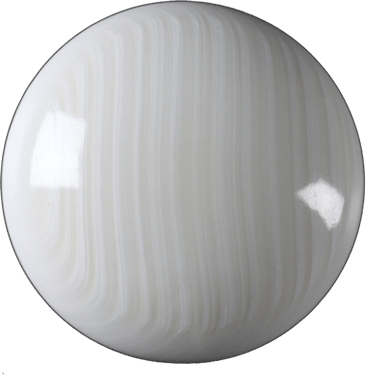
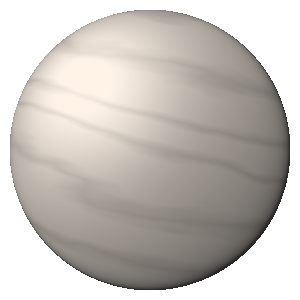
Make stone info click, add current OGOW game record, change white stone look

diff --git a/src/components/board/OwogMove.tsx b/src/components/board/OwogMove.tsx
@@ -1,11 +1,13 @@
 "use client"
 
 import { cn } from "@/lib/utils";
+import { FaRegCircle } from "react-icons/fa";
 import Image from "next/image";
 import { GoStoneProps, OneWorldPlayerInfo, StoneColor } from "../../lib/interface";
-import { Tooltip, TooltipContent, TooltipProvider, TooltipTrigger } from "../ui/tooltip";
 import { Avatar, AvatarFallback, AvatarImage } from "../ui/avatar";
-import { Circle } from "lucide-react";
+import { Popover, PopoverContent, PopoverTrigger } from "../ui/popover";
+
+const maxNameLengthForSmallerFont = 16
 
 export interface OwogMoveProps extends GoStoneProps {
   player: OneWorldPlayerInfo;
@@ -16,54 +18,63 @@ export interface OwogMoveProps extends GoStoneProps {
  * One World One Game Move
  */
 export function OwogMove({ color, position, className, player, size = 20, isCurrentMove }: OwogMoveProps) {
-  // 2 circles of different sizes are touching in the upper left
-  // By what distance do we need to shift the smaller circle such that both circles are centered?
-  // shift the smaller circle down and right by R(1-r/R)
-  // const markerSize = size / 1.6
-  // const marker = isCurrentMove ? (
-  //   <Circle
-  //     className="absolute z-20"
-  //     style={{
-  //       top: position.top,
-  //       left: position.left,
-  //       height: markerSize,
-  //       width: markerSize,
-  //       color: color === StoneColor.BLACK ? StoneColor.WHITE : StoneColor.BLACK
-  //     }}
-  //   />
-  // ) : undefined
+  const defaultPlayerImageFileName = `${player.last.toLowerCase()}_${player.first.toLowerCase()}.jpg`
+  const markerSize = size / 1.8
+  const marker = isCurrentMove ? (
+    <FaRegCircle
+      style={{
+        top: position.top,
+        left: position.left,
+        height: markerSize,
+        width: markerSize,
+        color: color === StoneColor.BLACK ? 'rgba(255, 255, 255, 0.8)' : 'rgba(0, 0, 0, 0.8)',
+      }}
+    />
+  ) : undefined
+
+  const name = `${player.title ? `${player.title} ` : ""}${player.last}, ${player.first}`
 
   return (
-    <TooltipProvider>
-      <Tooltip>
-        <TooltipTrigger asChild>
-          <Image
-            className={cn("absolute z-10", className)}
-            style={position}
-            alt=""
-            src={`/images/go/${color}-stone.png`}
-            width={size}
-            height={size}
-          />
-        </TooltipTrigger>
-        <TooltipContent className="max-w-80 space-y-4 px-4 py-4">
-          <div className="flex justify-between gap-8">
-            <div>
-              <p className="text-lg">{player.title ? `${player.title} ` : ""}{player.last}, {player.first}</p>
-              <p>{player.rank}</p>
-              {player.affiliation && <p>{player.affiliation}</p>}
-              {player.worldTitles && <p>World titles: {player.worldTitles}</p>}
+    <Popover>
+      <PopoverTrigger asChild>
+        <div className={cn("absolute z-10", className)} style={position}>
+          <div className="relative">
+            <Image
+              className=" aspect-square object-contain"
+              alt={`${color}-stone`}
+              src={`/images/go/${color}-stone.png`}
+              width={size}
+              height={size}
+            />
+            <div className="absolute inset-0 flex items-center justify-center z-20">
+              {marker}
             </div>
-            <Avatar className="h-16 w-16 text-primary text-4xl">
-              <AvatarImage src={`/images/player/${player.imageFileName}`} />
-              <AvatarFallback>
-                {player.first.at(0)?.toUpperCase()}{player.last.at(0)?.toUpperCase()}
-              </AvatarFallback>
-            </Avatar>
           </div>
-          <div>{player.bio}</div>
-        </TooltipContent>
-      </Tooltip>
-    </TooltipProvider>
+        </div>
+      </PopoverTrigger>
+      <PopoverContent className="max-w-120 space-y-4 px-4 py-4">
+        <div className="flex justify-between gap-4">
+          <div>
+            <p style={{
+              fontSize: `${name.length < maxNameLengthForSmallerFont ? 18 : 14}px`,
+              lineHeight: `${name.length < maxNameLengthForSmallerFont ? 28 : 20}px`,
+            }}>{name}</p>
+            <p className="text-xs">{player.rank}</p>
+            {player.affiliation && (
+              <p className="text-xs text-muted-foreground overflow-clip whitespace-nowrap">
+                {player.affiliation}
+              </p>
+            )}
+          </div>
+          <Avatar className="h-16 w-16 text-primary text-3xl">
+            <AvatarImage src={`/images/player/${player.imageFileName ?? defaultPlayerImageFileName}`} />
+            <AvatarFallback>
+              {player.last.at(0)?.toUpperCase()}{player.first.at(0)?.toUpperCase()}
+            </AvatarFallback>
+          </Avatar>
+        </div>
+        <p className="text-xs text-justify">{player.bio}</p>
+      </PopoverContent>
+    </Popover>
   );
 }

diff --git a/src/components/board/GoBoard.tsx b/src/components/board/GoBoard.tsx
@@ -36,8 +36,8 @@ export function GoBoard({ moves, size = 600, lines = 19 }: GoBoardProps) {
   const player = currPlayer ? `${currPlayer.last}, ${currPlayer.first} ${currPlayer.rank}` : undefined
 
   return (
-    <div>
-      <div className={`relative overflow-hidden w-[${size}px] h-[${size}px]`}>
+    <div> {/** Extra div needed here to prevent outside styles spilling into board styles */}
+      <div className={`inset-0 relative overflow-hidden w-[${size}px] h-[${size}px]`}>
         <EmptyBoard {...goBoardSpecs.getAllSpecs()} />
         {goStonesList.slice(0, currentMove)
           .map((goStone, idx) => (
@@ -45,7 +45,7 @@ export function GoBoard({ moves, size = 600, lines = 19 }: GoBoardProps) {
               key={idx}
               {...goStone}
               size={stoneSize}
-              className="transform transition duration-500 hover:scale-125 cursor-pointer"
+              className="transform transition duration-500 hover:scale-125 cursor-pointer hover:z-30"
               isCurrentMove={idx === currentMove - 1}
             />
           ))}

diff --git a/src/app/(home)/page.tsx b/src/app/(home)/page.tsx
@@ -13,12 +13,12 @@ export default function Home() {
       <Navbar>
         <MuseumHome />
       </Navbar>
-      <div className="flex flex-col items-center justify-center gap-6 my-20 mb-[250px] h-[100vh]">
+      <div className="flex flex-col items-center justify-center gap-6 my-10 mb-[250px] h-[100vh]">
         <h1 className="text-4xl">
           One World, One Game
         </h1>
         <h3 className="text-muted-foreground">
-          Hover over the stones to reveal the players!
+          Click on the stones to reveal the player!
         </h3>
         <GoBoard size={750} moves={oneWorldOneGame.getMoves()} />
       </div>

diff --git a/src/lib/sgf.ts b/src/lib/sgf.ts
@@ -6,6 +6,6 @@ const sgf = getSgf()
 export const oneWorldOneGame = new OneWorldOneGame(sgf)
 
 export function getSgf() {
-  const filePath = path.join(process.cwd(), "public", "test_cgoban.sgf")
+  const filePath = path.join(process.cwd(), "public", "demo-1293208.sgf")
   return readFileSync(filePath).toString()
 }

diff --git a/src/lib/oneWorldOneGame.ts b/src/lib/oneWorldOneGame.ts
@@ -99,7 +99,7 @@ export class OneWorldOneGame {
     lines.forEach(line => {
       const [key, value] = line.split(': ').map(part => part.trim());
 
-      result[key] = value;
+      result[key.toLowerCase()] = value;
     });
 
     return result as OneWorldPlayerInfo;

diff --git a/src/lib/interface.ts b/src/lib/interface.ts
@@ -35,7 +35,6 @@ export interface OneWorldPlayerInfo {
   first: string
   last: string
   rank: string
-  worldTitles?: string
   imageFileName?: string
   affiliation?: string
   bio: string
